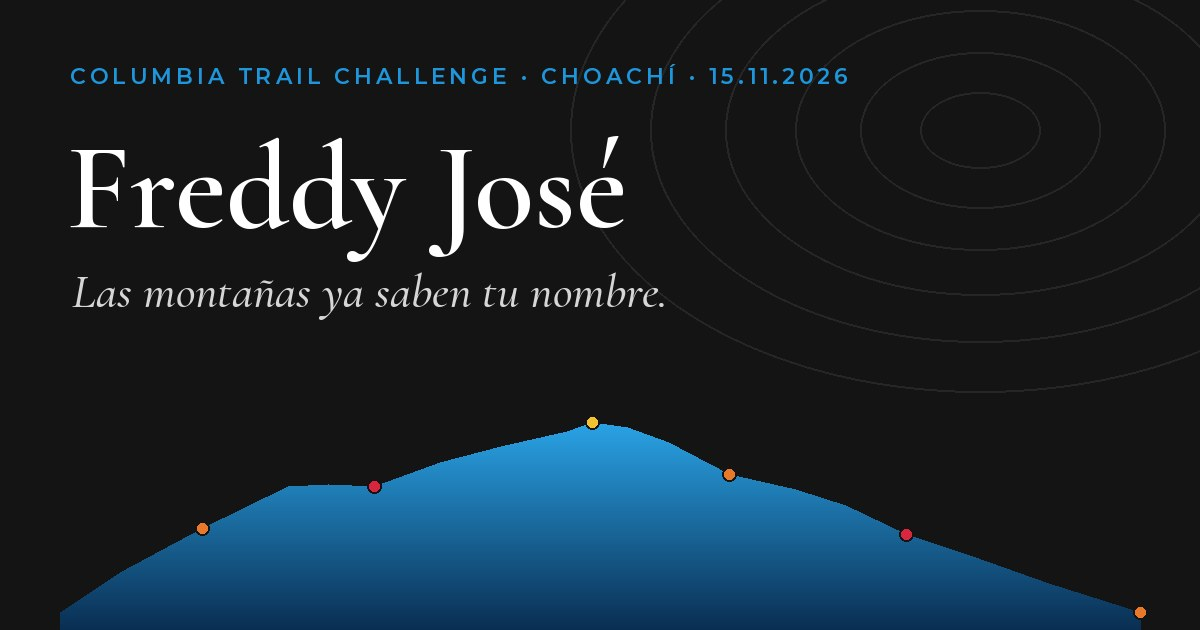
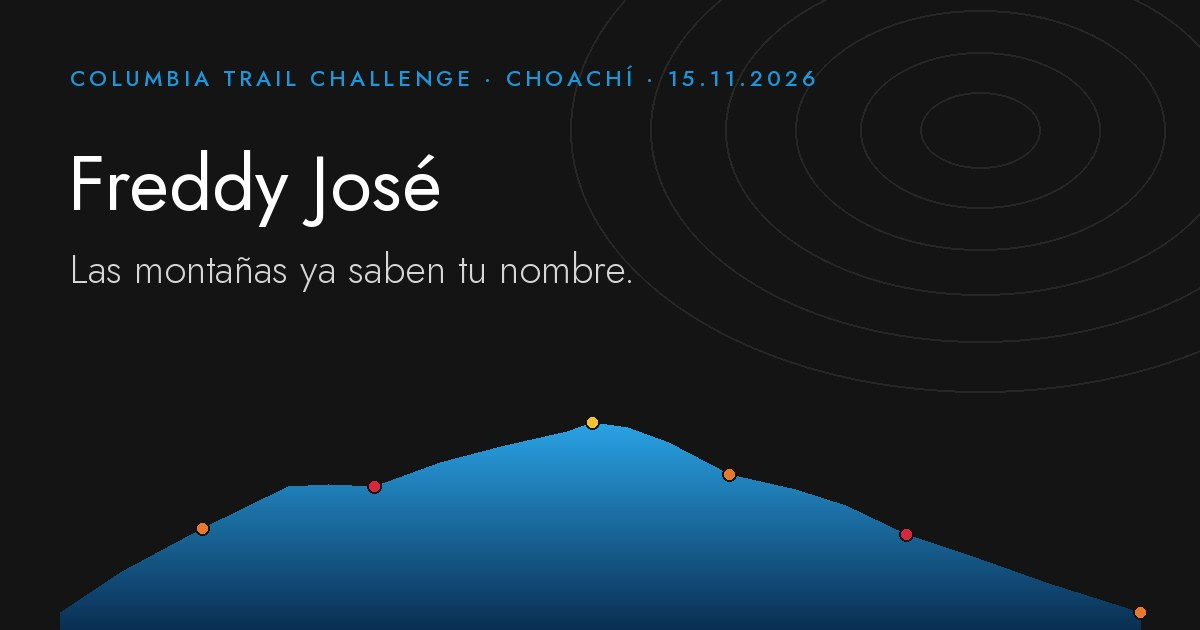
Tarjeta Freddy José: letra recta, título sobrio y monograma fv
Claude-Session: https://claude.ai/code/session_01AioF7tUm7bMLkSC4nL23cX

Changed region(s): [[0.0617, 0.2111, 0.555, 0.5127], [0.0617, 0.0905, 0.7092, 0.1508]]

diff --git a/freddy-jose.html b/freddy-jose.html
@@ -21,7 +21,7 @@
 <link rel="apple-touch-icon" href="apple-touch-icon.png">
 <link rel="preconnect" href="https://fonts.googleapis.com">
 <link rel="preconnect" href="https://fonts.gstatic.com" crossorigin>
-<link rel="stylesheet" href="https://fonts.googleapis.com/css2?family=Cormorant+Garamond:ital,wght@0,400;0,500;0,600;0,700;1,400;1,500;1,600&amp;family=Montserrat:wght@400;500;600&amp;display=swap">
+<link rel="stylesheet" href="https://fonts.googleapis.com/css2?family=Jost:wght@300;400;500;600&amp;display=swap">
 <style>
 html, body { margin: 0; background: #0B0B0B; }
 body { display: flex; flex-direction: column; align-items: center; gap: 20px; padding: 16px 0 40px; }
@@ -33,7 +33,7 @@ a { color: #1E96DC; } a:hover { color: #5BB8EC; }
 <body>
 <main aria-label="Tarjeta para Freddy José">
 <div class="frame"><div class="card">
-<div style="width: 1080px; height: 1350px; box-sizing: border-box; position: relative; overflow: hidden; background: #141414; color: #FFFFFF; font-family: 'Cormorant Garamond', Georgia, serif;">
+<div style="width: 1080px; height: 1350px; box-sizing: border-box; position: relative; overflow: hidden; background: #141414; color: #FFFFFF; font-family: 'Jost', 'Helvetica Neue', Arial, sans-serif;">
 <svg aria-hidden="true" width="1080" height="1350" viewBox="0 0 1080 1350" style="position: absolute; left: 0; top: 0;">
 <g fill="none" stroke="#FFFFFF" stroke-opacity="0.06" stroke-width="2">
 <ellipse cx="872" cy="232" rx="60" ry="38" transform="rotate(-12 872 232)"></ellipse>
@@ -168,25 +168,34 @@ a { color: #1E96DC; } a:hover { color: #5BB8EC; }
 </g>
 </g>
 </svg>
+<div style="position: absolute; right: 64px; top: 40px; display: flex; flex-direction: column; align-items: center; gap: 8px;">
+<svg role="img" aria-label="Monograma fv de Freddy Villarreal" width="52" height="63" viewBox="440 270 400 485">
+<g fill="none" stroke="#A8DCC5" stroke-width="16" stroke-linecap="butt" stroke-linejoin="round">
+<path d="M515 745 L 515 385 C 515 300, 610 255, 680 320"></path>
+<path d="M448 465 L 548 465 C 590 465, 612 500, 626 548 L 660 688 L 762 420 C 776 382, 798 356, 828 352"></path>
+</g>
+</svg>
+<span style="font-family: 'Jost', 'Helvetica Neue', Arial, sans-serif; font-weight: 500; font-size: 11px; letter-spacing: 2.5px; color: #BFE6D3; white-space: nowrap;">FREDDY VILLARREAL</span>
+</div>
 <div style="position: relative; box-sizing: border-box; width: 1080px; height: 1350px; padding: 80px 96px 72px; display: flex; flex-direction: column;">
-<p style="margin: 0; font-family: 'Montserrat', Arial, sans-serif; font-weight: 500; font-size: 18px; letter-spacing: 4px; text-transform: uppercase; color: #1E96DC;">Columbia Trail Challenge · 15.11.2026</p>
-<p style="margin: 10px 0 0; display: flex; align-items: center; gap: 10px; font-style: italic; font-weight: 500; font-size: 25px; line-height: 1.3; color: #BDBDBD;"><svg aria-hidden="true" width="18" height="18" viewBox="0 0 18 18" style="flex-shrink: 0;"><path d="M12.5 2.2 A 7.2 7.2 0 1 0 15.8 12.6 A 5.6 5.6 0 1 1 12.5 2.2 Z" fill="#E8E8E8"></path></svg><span>Choachí, del muisca <em style="font-weight: 600; color: #FFFFFF;">Chiguachí</em>: «ventana de la luna» · 1.922 m s. n. m.</span></p>
-<h1 style="margin: 34px 0 0; font-family: 'Cormorant Garamond', Georgia, serif; font-weight: 600; font-size: 128px; line-height: 0.95; letter-spacing: 1px; color: #FFFFFF;">Freddy José</h1>
-<p style="margin: 22px 0 0; font-style: italic; font-weight: 500; font-size: 52px; line-height: 1.1; color: #FFFFFF;">Las montañas ya saben tu nombre.</p>
-<div style="margin-top: 48px; display: flex; flex-direction: column; gap: 22px; max-width: 860px; font-size: 31px; line-height: 1.4; font-weight: 500; color: #D6D6D6;">
+<p style="margin: 0; font-family: 'Jost', 'Helvetica Neue', Arial, sans-serif; font-weight: 500; font-size: 18px; letter-spacing: 4px; text-transform: uppercase; color: #1E96DC;">Columbia Trail Challenge · 15.11.2026</p>
+<p style="margin: 10px 0 0; display: flex; align-items: center; gap: 10px; font-weight: 300; font-size: 21px; line-height: 1.35; color: #BDBDBD;"><svg aria-hidden="true" width="18" height="18" viewBox="0 0 18 18" style="flex-shrink: 0;"><path d="M12.5 2.2 A 7.2 7.2 0 1 0 15.8 12.6 A 5.6 5.6 0 1 1 12.5 2.2 Z" fill="#E8E8E8"></path></svg><span>Choachí, del muisca <em style="font-style: normal; font-weight: 500; color: #FFFFFF;">Chiguachí</em>: «ventana de la luna» · 1.922 msnm</span></p>
+<h1 style="margin: 34px 0 0; font-family: 'Jost', 'Helvetica Neue', Arial, sans-serif; font-weight: 400; font-size: 56px; line-height: 1.1; letter-spacing: 2px; color: #FFFFFF;">Freddy José</h1>
+<p style="margin: 22px 0 0; font-weight: 300; font-size: 40px; line-height: 1.2; color: #FFFFFF;">Las montañas ya saben tu nombre.</p>
+<div style="margin-top: 48px; display: flex; flex-direction: column; gap: 22px; max-width: 860px; font-size: 25px; line-height: 1.55; font-weight: 300; color: #D6D6D6;">
 <p style="margin: 0;">Terepaima te ha visto llegar antes que el sol. La Morita conoce tus pasos. El Ávila guarda tus subidas, y el páramo de Mérida te ha regalado su frío y su silencio.</p>
 <p style="margin: 0;">Fuiste del mar a la cumbre en Chichiriviche de la Costa, atravesaste la neblina del Zumbador, corriste 100 kilómetros en Mifafí, tierra de cóndores, te mediste con el mundo en el UTMB y aprendiste en el Backyard Ultra que siempre queda una vuelta más.</p>
 <p style="margin: 0;">Tus manos han recibido tantas vidas que sabes que lo más hermoso nace después del esfuerzo más largo. Compite como atiendes un parto: cabeza fría, manos firmes, corazón presente. Y levanta la mirada: la montaña también se disfruta.</p>
 </div>
-<p style="margin: 48px 0 0; max-width: 820px; font-style: italic; font-weight: 600; font-size: 48px; line-height: 1.2; color: #1E96DC;">Tú, que escuchas los primeros latidos de cada vida, escucha hoy el tuyo.</p>
+<p style="margin: 48px 0 0; max-width: 820px; font-weight: 400; font-size: 36px; line-height: 1.3; color: #1E96DC;">Tú, que escuchas los primeros latidos de cada vida, escucha hoy el tuyo.</p>
 <div style="flex-grow: 1;"></div>
-<p style="margin: 0; font-family: 'Cormorant Garamond', Georgia, serif; font-weight: 500; font-size: 44px; line-height: 1.15; color: #FFFFFF;">Choachí aún no conoce tu paso.<br>El domingo aprenderá tu nombre.</p>
+<p style="margin: 0; font-family: 'Jost', 'Helvetica Neue', Arial, sans-serif; font-weight: 400; font-size: 34px; line-height: 1.25; color: #FFFFFF;">Choachí aún no conoce tu paso.<br>El domingo aprenderá tu nombre.</p>
 </div>
 </div>
 </div></div>
 <div style="height: 20px;"></div>
 <div class="frame"><div class="card">
-<div style="width: 1080px; height: 1350px; box-sizing: border-box; position: relative; overflow: hidden; background: #141414; color: #FFFFFF; font-family: 'Cormorant Garamond', Georgia, serif;">
+<div style="width: 1080px; height: 1350px; box-sizing: border-box; position: relative; overflow: hidden; background: #141414; color: #FFFFFF; font-family: 'Jost', 'Helvetica Neue', Arial, sans-serif;">
 <svg aria-hidden="true" width="1080" height="1350" viewBox="0 0 1080 1350" style="position: absolute; left: 0; top: 0;">
 <g fill="none" stroke="#FFFFFF" stroke-opacity="0.06" stroke-width="2">
 <ellipse cx="190" cy="1190" rx="60" ry="38" transform="rotate(14 190 1190)"></ellipse>
@@ -198,7 +207,7 @@ a { color: #1E96DC; } a:hover { color: #5BB8EC; }
 </g>
 </svg>
 <div style="position: relative; box-sizing: border-box; width: 1080px; height: 1350px; padding: 80px 96px 56px; display: flex; flex-direction: column;">
-<p style="margin: 0; font-family: 'Montserrat', Arial, sans-serif; font-weight: 500; font-size: 18px; letter-spacing: 4px; text-transform: uppercase; color: #1E96DC;">Tu ruta · una frase, un pedazo por tramo</p>
+<p style="margin: 0; font-family: 'Jost', 'Helvetica Neue', Arial, sans-serif; font-weight: 500; font-size: 18px; letter-spacing: 4px; text-transform: uppercase; color: #1E96DC;">Tu ruta · una frase, un pedazo por tramo</p>
 <div style="position: relative; width: 888px; height: 300px; margin-top: 18px;">
 <svg role="img" aria-label="Perfil de la ruta de unos 23 km: salida a 1.922 metros, subida hasta 3.309 metros en el kilómetro 10,5 y bajada hasta la meta, con los puestos de control y flores nativas de Choachí: orquídea Epidendrum, frailejón y uva camarona" width="888" height="300" viewBox="0 0 888 300" style="position: absolute; left: 0; top: 0;">
 <defs>
@@ -510,137 +519,137 @@ a { color: #1E96DC; } a:hover { color: #5BB8EC; }
 </g>
 </g>
 </svg>
-<div style="position: absolute; left: 76px; top: 264px; transform: translateX(-50%); display: flex; flex-direction: column; align-items: center; font-family: 'Montserrat', Arial, sans-serif; font-size: 11px; line-height: 1.25; letter-spacing: 0.5px; white-space: nowrap;">
+<div style="position: absolute; left: 76px; top: 264px; transform: translateX(-50%); display: flex; flex-direction: column; align-items: center; font-family: 'Jost', 'Helvetica Neue', Arial, sans-serif; font-size: 11px; line-height: 1.25; letter-spacing: 0.5px; white-space: nowrap;">
 <span style="font-weight: 500; color: #E6EEF5;">2,8 km</span>
 <span style="font-weight: 600; color: #8FD0F5;">+570 m</span>
 </div>
-<div style="position: absolute; left: 199px; top: 264px; transform: translateX(-50%); display: flex; flex-direction: column; align-items: center; font-family: 'Montserrat', Arial, sans-serif; font-size: 11px; line-height: 1.25; letter-spacing: 0.5px; white-space: nowrap;">
+<div style="position: absolute; left: 199px; top: 264px; transform: translateX(-50%); display: flex; flex-direction: column; align-items: center; font-family: 'Jost', 'Helvetica Neue', Arial, sans-serif; font-size: 11px; line-height: 1.25; letter-spacing: 0.5px; white-space: nowrap;">
 <span style="font-weight: 500; color: #E6EEF5;">3,4 km</span>
 <span style="font-weight: 600; color: #8FD0F5;">+310 m</span>
 </div>
-<div style="position: absolute; left: 352px; top: 264px; transform: translateX(-50%); display: flex; flex-direction: column; align-items: center; font-family: 'Montserrat', Arial, sans-serif; font-size: 11px; line-height: 1.25; letter-spacing: 0.5px; white-space: nowrap;">
+<div style="position: absolute; left: 352px; top: 264px; transform: translateX(-50%); display: flex; flex-direction: column; align-items: center; font-family: 'Jost', 'Helvetica Neue', Arial, sans-serif; font-size: 11px; line-height: 1.25; letter-spacing: 0.5px; white-space: nowrap;">
 <span style="font-weight: 500; color: #E6EEF5;">4,3 km</span>
 <span style="font-weight: 600; color: #8FD0F5;">+500 m</span>
 </div>
-<div style="position: absolute; left: 492px; top: 264px; transform: translateX(-50%); display: flex; flex-direction: column; align-items: center; font-family: 'Montserrat', Arial, sans-serif; font-size: 11px; line-height: 1.25; letter-spacing: 0.5px; white-space: nowrap;">
+<div style="position: absolute; left: 492px; top: 264px; transform: translateX(-50%); display: flex; flex-direction: column; align-items: center; font-family: 'Jost', 'Helvetica Neue', Arial, sans-serif; font-size: 11px; line-height: 1.25; letter-spacing: 0.5px; white-space: nowrap;">
 <span style="font-weight: 500; color: #E6EEF5;">2,7 km</span>
 <span style="font-weight: 600; color: #8FD0F5;">−430 m</span>
 </div>
-<div style="position: absolute; left: 615px; top: 264px; transform: translateX(-50%); display: flex; flex-direction: column; align-items: center; font-family: 'Montserrat', Arial, sans-serif; font-size: 11px; line-height: 1.25; letter-spacing: 0.5px; white-space: nowrap;">
+<div style="position: absolute; left: 615px; top: 264px; transform: translateX(-50%); display: flex; flex-direction: column; align-items: center; font-family: 'Jost', 'Helvetica Neue', Arial, sans-serif; font-size: 11px; line-height: 1.25; letter-spacing: 0.5px; white-space: nowrap;">
 <span style="font-weight: 500; color: #E6EEF5;">3,5 km</span>
 <span style="font-weight: 600; color: #8FD0F5;">−420 m</span>
 </div>
-<div style="position: absolute; left: 776px; top: 264px; transform: translateX(-50%); display: flex; flex-direction: column; align-items: center; font-family: 'Montserrat', Arial, sans-serif; font-size: 11px; line-height: 1.25; letter-spacing: 0.5px; white-space: nowrap;">
+<div style="position: absolute; left: 776px; top: 264px; transform: translateX(-50%); display: flex; flex-direction: column; align-items: center; font-family: 'Jost', 'Helvetica Neue', Arial, sans-serif; font-size: 11px; line-height: 1.25; letter-spacing: 0.5px; white-space: nowrap;">
 <span style="font-weight: 500; color: #E6EEF5;">6,3 km</span>
 <span style="font-weight: 600; color: #8FD0F5;">−540 m</span>
 </div>
 <div style="position: absolute; left: 553px; top: 58px; display: flex; flex-direction: column; align-items: flex-start;">
-<span style="font-family: 'Montserrat', Arial, sans-serif; font-weight: 600; font-size: 13px; letter-spacing: 1.5px; text-transform: uppercase; line-height: 1.2; color: #1E96DC; white-space: nowrap;">Águila</span>
-<span style="font-style: italic; font-weight: 600; font-size: 30px; line-height: 1.15; color: #FFFFFF; white-space: nowrap;">Gratitud</span>
+<span style="font-family: 'Jost', 'Helvetica Neue', Arial, sans-serif; font-weight: 600; font-size: 13px; letter-spacing: 1.5px; text-transform: uppercase; line-height: 1.2; color: #1E96DC; white-space: nowrap;">Águila</span>
+<span style="font-weight: 400; font-size: 24px; line-height: 1.25; color: #FFFFFF; white-space: nowrap;">Gratitud</span>
 </div>
 <div style="position: absolute; left: 131.5px; top: 104px; transform: translateX(-50%); display: flex; flex-direction: column; align-items: center;">
-<span style="font-family: 'Montserrat', Arial, sans-serif; font-weight: 600; font-size: 13px; letter-spacing: 1.5px; text-transform: uppercase; line-height: 1.2; color: #1E96DC; white-space: nowrap;">Apola</span>
-<span style="font-style: italic; font-weight: 600; font-size: 30px; line-height: 1.15; color: #FFFFFF; white-space: nowrap;">Calma</span>
+<span style="font-family: 'Jost', 'Helvetica Neue', Arial, sans-serif; font-weight: 600; font-size: 13px; letter-spacing: 1.5px; text-transform: uppercase; line-height: 1.2; color: #1E96DC; white-space: nowrap;">Apola</span>
+<span style="font-weight: 400; font-size: 24px; line-height: 1.25; color: #FFFFFF; white-space: nowrap;">Calma</span>
 </div>
 <div style="position: absolute; left: 266.8px; top: 58px; transform: translateX(-50%); display: flex; flex-direction: column; align-items: center;">
-<span style="font-family: 'Montserrat', Arial, sans-serif; font-weight: 600; font-size: 13px; letter-spacing: 1.5px; text-transform: uppercase; line-height: 1.2; color: #1E96DC; white-space: nowrap;">Quininí</span>
-<span style="font-style: italic; font-weight: 600; font-size: 30px; line-height: 1.15; color: #FFFFFF; white-space: nowrap;">Paciencia</span>
+<span style="font-family: 'Jost', 'Helvetica Neue', Arial, sans-serif; font-weight: 600; font-size: 13px; letter-spacing: 1.5px; text-transform: uppercase; line-height: 1.2; color: #1E96DC; white-space: nowrap;">Quininí</span>
+<span style="font-weight: 400; font-size: 24px; line-height: 1.25; color: #FFFFFF; white-space: nowrap;">Paciencia</span>
 </div>
 <div style="position: absolute; left: 438px; top: 0px; transform: translateX(-50%); display: flex; flex-direction: column; align-items: center;">
-<span style="font-family: 'Montserrat', Arial, sans-serif; font-weight: 600; font-size: 13px; letter-spacing: 1.5px; text-transform: uppercase; line-height: 1.2; color: #1E96DC; white-space: nowrap;">Nueva Granate · 3.309 m</span>
-<span style="font-style: italic; font-weight: 600; font-size: 30px; line-height: 1.15; color: #FFFFFF; white-space: nowrap;">Conquista</span>
+<span style="font-family: 'Jost', 'Helvetica Neue', Arial, sans-serif; font-weight: 600; font-size: 13px; letter-spacing: 1.5px; text-transform: uppercase; line-height: 1.2; color: #1E96DC; white-space: nowrap;">Nueva Granate · 3.309 m</span>
+<span style="font-weight: 400; font-size: 24px; line-height: 1.25; color: #FFFFFF; white-space: nowrap;">Conquista</span>
 </div>
 <div style="position: absolute; left: 684.8px; top: 108px; transform: translateX(-50%); display: flex; flex-direction: column; align-items: center;">
-<span style="font-family: 'Montserrat', Arial, sans-serif; font-weight: 600; font-size: 13px; letter-spacing: 1.5px; text-transform: uppercase; line-height: 1.2; color: #1E96DC; white-space: nowrap;">Azabache</span>
-<span style="font-style: italic; font-weight: 600; font-size: 30px; line-height: 1.15; color: #FFFFFF; white-space: nowrap;">Ataque</span>
+<span style="font-family: 'Jost', 'Helvetica Neue', Arial, sans-serif; font-weight: 600; font-size: 13px; letter-spacing: 1.5px; text-transform: uppercase; line-height: 1.2; color: #1E96DC; white-space: nowrap;">Azabache</span>
+<span style="font-weight: 400; font-size: 24px; line-height: 1.25; color: #FFFFFF; white-space: nowrap;">Ataque</span>
 </div>
 <div style="position: absolute; right: 0px; top: 176px; display: flex; flex-direction: column; align-items: flex-end;">
-<span style="font-family: 'Montserrat', Arial, sans-serif; font-weight: 600; font-size: 13px; letter-spacing: 1.5px; text-transform: uppercase; line-height: 1.2; color: #1E96DC; white-space: nowrap;">Club Colombia Dorada</span>
-<span style="font-style: italic; font-weight: 600; font-size: 30px; line-height: 1.15; color: #FFFFFF; white-space: nowrap;">Felicidad</span>
+<span style="font-family: 'Jost', 'Helvetica Neue', Arial, sans-serif; font-weight: 600; font-size: 13px; letter-spacing: 1.5px; text-transform: uppercase; line-height: 1.2; color: #1E96DC; white-space: nowrap;">Club Colombia Dorada</span>
+<span style="font-weight: 400; font-size: 24px; line-height: 1.25; color: #FFFFFF; white-space: nowrap;">Felicidad</span>
 </div>
 </div>
-<div style="display: flex; justify-content: space-between; gap: 24px; margin-top: 10px; font-family: 'Montserrat', Arial, sans-serif; font-weight: 500; font-size: 12px; letter-spacing: 1.5px; text-transform: uppercase; color: #9A9A9A;">
+<div style="display: flex; justify-content: space-between; gap: 24px; margin-top: 10px; font-family: 'Jost', 'Helvetica Neue', Arial, sans-serif; font-weight: 500; font-size: 12px; letter-spacing: 1.5px; text-transform: uppercase; color: #9A9A9A;">
 <span>Salida y llegada · Parque principal de Choachí · 1.922 m</span>
 <span>21K de nombre · 23 km reales · +1.652 m</span>
 </div>
-<p style="margin: 16px 0 0; display: flex; align-items: center; gap: 10px; font-family: 'Cormorant Garamond', Georgia, serif; font-style: italic; font-weight: 600; font-size: 22px; line-height: 1.3; color: #FFFFFF;"><svg aria-hidden="true" width="16" height="20" viewBox="0 0 16 20" style="flex-shrink: 0;"><path d="M8 1 C 8 1, 1 9.5, 1 13 A 7 7 0 0 0 15 13 C 15 9.5, 8 1, 8 1 Z" fill="#1E96DC"></path></svg><span>Indicación médica: en cada puesto, carbos y electrolitos, aunque no tengas hambre ni sed.</span></p>
+<p style="margin: 16px 0 0; display: flex; align-items: center; gap: 10px; font-family: 'Jost', 'Helvetica Neue', Arial, sans-serif; font-weight: 400; font-size: 18px; line-height: 1.35; color: #FFFFFF;"><svg aria-hidden="true" width="16" height="20" viewBox="0 0 16 20" style="flex-shrink: 0;"><path d="M8 1 C 8 1, 1 9.5, 1 13 A 7 7 0 0 0 15 13 C 15 9.5, 8 1, 8 1 Z" fill="#1E96DC"></path></svg><span>Indicación médica: en cada puesto, carbos y electrolitos, aunque no tengas hambre ni sed.</span></p>
 <div style="margin-top: 10px; display: grid; grid-template-columns: repeat(3, minmax(0, 1fr)); column-gap: 24px; row-gap: 10px;">
 <div style="display: flex; flex-direction: column; gap: 2px; padding-top: 10px; border-top: 1px solid rgba(255, 255, 255, 0.15);">
-<span style="font-family: 'Montserrat', Arial, sans-serif; font-weight: 600; font-size: 12px; letter-spacing: 1.5px; text-transform: uppercase; color: #1E96DC;">PC 1 · km 2,8</span>
-<span style="font-style: italic; font-weight: 600; font-size: 25px; line-height: 1.1; color: #FFFFFF;">Apola</span>
-<span style="font-family: 'Montserrat', Arial, sans-serif; font-weight: 400; font-size: 12px; line-height: 1.4; color: #BDBDBD;">Agua</span>
+<span style="font-family: 'Jost', 'Helvetica Neue', Arial, sans-serif; font-weight: 600; font-size: 12px; letter-spacing: 1.5px; text-transform: uppercase; color: #1E96DC;">PC 1 · km 2,8</span>
+<span style="font-weight: 400; font-size: 20px; line-height: 1.25; color: #FFFFFF;">Apola</span>
+<span style="font-family: 'Jost', 'Helvetica Neue', Arial, sans-serif; font-weight: 400; font-size: 12px; line-height: 1.4; color: #BDBDBD;">Agua</span>
 </div>
 <div style="display: flex; flex-direction: column; gap: 2px; padding-top: 10px; border-top: 1px solid rgba(255, 255, 255, 0.15);">
-<span style="font-family: 'Montserrat', Arial, sans-serif; font-weight: 600; font-size: 12px; letter-spacing: 1.5px; text-transform: uppercase; color: #1E96DC;">PC 2 · km 6,2</span>
-<span style="font-style: italic; font-weight: 600; font-size: 25px; line-height: 1.1; color: #FFFFFF;">Quininí</span>
-<span style="font-family: 'Montserrat', Arial, sans-serif; font-weight: 400; font-size: 12px; line-height: 1.4; color: #BDBDBD;">Agua y comida · corte 1 h 45</span>
+<span style="font-family: 'Jost', 'Helvetica Neue', Arial, sans-serif; font-weight: 600; font-size: 12px; letter-spacing: 1.5px; text-transform: uppercase; color: #1E96DC;">PC 2 · km 6,2</span>
+<span style="font-weight: 400; font-size: 20px; line-height: 1.25; color: #FFFFFF;">Quininí</span>
+<span style="font-family: 'Jost', 'Helvetica Neue', Arial, sans-serif; font-weight: 400; font-size: 12px; line-height: 1.4; color: #BDBDBD;">Agua y comida · corte 1 h 45</span>
 </div>
 <div style="display: flex; flex-direction: column; gap: 2px; padding-top: 10px; border-top: 1px solid rgba(255, 255, 255, 0.15);">
-<span style="font-family: 'Montserrat', Arial, sans-serif; font-weight: 600; font-size: 12px; letter-spacing: 1.5px; text-transform: uppercase; color: #1E96DC;">Cima · km 10,5</span>
-<span style="font-style: italic; font-weight: 600; font-size: 25px; line-height: 1.1; color: #FFFFFF;">Nueva Granate</span>
-<span style="font-family: 'Montserrat', Arial, sans-serif; font-weight: 400; font-size: 12px; line-height: 1.4; color: #BDBDBD;">3.309 m · el techo de la carrera</span>
+<span style="font-family: 'Jost', 'Helvetica Neue', Arial, sans-serif; font-weight: 600; font-size: 12px; letter-spacing: 1.5px; text-transform: uppercase; color: #1E96DC;">Cima · km 10,5</span>
+<span style="font-weight: 400; font-size: 20px; line-height: 1.25; color: #FFFFFF;">Nueva Granate</span>
+<span style="font-family: 'Jost', 'Helvetica Neue', Arial, sans-serif; font-weight: 400; font-size: 12px; line-height: 1.4; color: #BDBDBD;">3.309 m · el techo de la carrera</span>
 </div>
 <div style="display: flex; flex-direction: column; gap: 2px; padding-top: 10px; border-top: 1px solid rgba(255, 255, 255, 0.15);">
-<span style="font-family: 'Montserrat', Arial, sans-serif; font-weight: 600; font-size: 12px; letter-spacing: 1.5px; text-transform: uppercase; color: #1E96DC;">PC 4 · km 13,2</span>
-<span style="font-style: italic; font-weight: 600; font-size: 25px; line-height: 1.1; color: #FFFFFF;">Águila</span>
-<span style="font-family: 'Montserrat', Arial, sans-serif; font-weight: 400; font-size: 12px; line-height: 1.4; color: #BDBDBD;">Primeros auxilios</span>
+<span style="font-family: 'Jost', 'Helvetica Neue', Arial, sans-serif; font-weight: 600; font-size: 12px; letter-spacing: 1.5px; text-transform: uppercase; color: #1E96DC;">PC 4 · km 13,2</span>
+<span style="font-weight: 400; font-size: 20px; line-height: 1.25; color: #FFFFFF;">Águila</span>
+<span style="font-family: 'Jost', 'Helvetica Neue', Arial, sans-serif; font-weight: 400; font-size: 12px; line-height: 1.4; color: #BDBDBD;">Primeros auxilios</span>
 </div>
 <div style="display: flex; flex-direction: column; gap: 2px; padding-top: 10px; border-top: 1px solid rgba(255, 255, 255, 0.15);">
-<span style="font-family: 'Montserrat', Arial, sans-serif; font-weight: 600; font-size: 12px; letter-spacing: 1.5px; text-transform: uppercase; color: #1E96DC;">PC 5 · km 16,7</span>
-<span style="font-style: italic; font-weight: 600; font-size: 25px; line-height: 1.1; color: #FFFFFF;">Azabache</span>
-<span style="font-family: 'Montserrat', Arial, sans-serif; font-weight: 400; font-size: 12px; line-height: 1.4; color: #BDBDBD;">Agua y comida · corte 5 h 15</span>
+<span style="font-family: 'Jost', 'Helvetica Neue', Arial, sans-serif; font-weight: 600; font-size: 12px; letter-spacing: 1.5px; text-transform: uppercase; color: #1E96DC;">PC 5 · km 16,7</span>
+<span style="font-weight: 400; font-size: 20px; line-height: 1.25; color: #FFFFFF;">Azabache</span>
+<span style="font-family: 'Jost', 'Helvetica Neue', Arial, sans-serif; font-weight: 400; font-size: 12px; line-height: 1.4; color: #BDBDBD;">Agua y comida · corte 5 h 15</span>
 </div>
 <div style="display: flex; flex-direction: column; gap: 2px; padding-top: 10px; border-top: 1px solid rgba(255, 255, 255, 0.15);">
-<span style="font-family: 'Montserrat', Arial, sans-serif; font-weight: 600; font-size: 12px; letter-spacing: 1.5px; text-transform: uppercase; color: #1E96DC;">Meta · km 23</span>
-<span style="font-style: italic; font-weight: 600; font-size: 25px; line-height: 1.1; color: #FFFFFF;">Club Colombia Dorada</span>
-<span style="font-family: 'Montserrat', Arial, sans-serif; font-weight: 400; font-size: 12px; line-height: 1.4; color: #BDBDBD;">Agua y comida · corte 7 h</span>
+<span style="font-family: 'Jost', 'Helvetica Neue', Arial, sans-serif; font-weight: 600; font-size: 12px; letter-spacing: 1.5px; text-transform: uppercase; color: #1E96DC;">Meta · km 23</span>
+<span style="font-weight: 400; font-size: 20px; line-height: 1.25; color: #FFFFFF;">Club Colombia Dorada</span>
+<span style="font-family: 'Jost', 'Helvetica Neue', Arial, sans-serif; font-weight: 400; font-size: 12px; line-height: 1.4; color: #BDBDBD;">Agua y comida · corte 7 h</span>
 </div>
 </div>
 <ol style="list-style: none; margin: 14px 0 0; padding: 0; display: flex; flex-direction: column;">
 <li style="display: grid; grid-template-columns: 80px minmax(0, 1fr); column-gap: 24px; padding: 6px 0; border-top: 1px solid rgba(255, 255, 255, 0.15);">
-<span style="font-family: 'Cormorant Garamond', Georgia, serif; font-weight: 600; font-size: 50px; line-height: 1; color: #1E96DC;">01</span>
+<span style="font-family: 'Jost', 'Helvetica Neue', Arial, sans-serif; font-weight: 300; font-size: 42px; line-height: 1; color: #1E96DC;">01</span>
 <div style="display: flex; flex-direction: column; gap: 2px;">
-<span style="font-family: 'Montserrat', Arial, sans-serif; font-weight: 500; font-size: 13px; letter-spacing: 2px; text-transform: uppercase; line-height: 1.4; color: #BDBDBD;">La salida · km 0 a 2,8 · Calma</span>
-<span style="font-style: italic; font-weight: 600; font-size: 38px; line-height: 1.05; color: #FFFFFF;">Salgo con el pulso en calma,</span>
-<span style="font-size: 22px; line-height: 1.3; font-weight: 500; color: #D6D6D6;">Lee tu pulso como el de un paciente: los que salen rápido, pagan.</span>
+<span style="font-family: 'Jost', 'Helvetica Neue', Arial, sans-serif; font-weight: 500; font-size: 13px; letter-spacing: 2px; text-transform: uppercase; line-height: 1.4; color: #BDBDBD;">La salida · km 0 a 2,8 · Calma</span>
+<span style="font-weight: 400; font-size: 30px; line-height: 1.2; color: #FFFFFF;">Salgo con el pulso en calma,</span>
+<span style="font-size: 19px; line-height: 1.4; font-weight: 300; color: #D6D6D6;">Lee tu pulso como el de un paciente: los que salen rápido, pagan.</span>
 </div>
 </li>
 <li style="display: grid; grid-template-columns: 80px minmax(0, 1fr); column-gap: 24px; padding: 6px 0; border-top: 1px solid rgba(255, 255, 255, 0.15);">
-<span style="font-family: 'Cormorant Garamond', Georgia, serif; font-weight: 600; font-size: 50px; line-height: 1; color: #1E96DC;">02</span>
+<span style="font-family: 'Jost', 'Helvetica Neue', Arial, sans-serif; font-weight: 300; font-size: 42px; line-height: 1; color: #1E96DC;">02</span>
 <div style="display: flex; flex-direction: column; gap: 2px;">
-<span style="font-family: 'Montserrat', Arial, sans-serif; font-weight: 500; font-size: 13px; letter-spacing: 2px; text-transform: uppercase; line-height: 1.4; color: #BDBDBD;">La gran subida · km 2,8 a 10,5 · Paciencia</span>
-<span style="font-style: italic; font-weight: 600; font-size: 38px; line-height: 1.05; color: #FFFFFF;">subo con paciencia,</span>
-<span style="font-size: 22px; line-height: 1.3; font-weight: 500; color: #D6D6D6;">Paso corto y constante: el ritmo lo marca tu corazón, no los demás.</span>
+<span style="font-family: 'Jost', 'Helvetica Neue', Arial, sans-serif; font-weight: 500; font-size: 13px; letter-spacing: 2px; text-transform: uppercase; line-height: 1.4; color: #BDBDBD;">La gran subida · km 2,8 a 10,5 · Paciencia</span>
+<span style="font-weight: 400; font-size: 30px; line-height: 1.2; color: #FFFFFF;">subo con paciencia,</span>
+<span style="font-size: 19px; line-height: 1.4; font-weight: 300; color: #D6D6D6;">Paso corto y constante: el ritmo lo marca tu corazón, no los demás.</span>
 </div>
 </li>
 <li style="display: grid; grid-template-columns: 80px minmax(0, 1fr); column-gap: 24px; padding: 6px 0; border-top: 1px solid rgba(255, 255, 255, 0.15);">
-<span style="font-family: 'Cormorant Garamond', Georgia, serif; font-weight: 600; font-size: 50px; line-height: 1; color: #1E96DC;">03</span>
+<span style="font-family: 'Jost', 'Helvetica Neue', Arial, sans-serif; font-weight: 300; font-size: 42px; line-height: 1; color: #1E96DC;">03</span>
 <div style="display: flex; flex-direction: column; gap: 2px;">
-<span style="font-family: 'Montserrat', Arial, sans-serif; font-weight: 500; font-size: 13px; letter-spacing: 2px; text-transform: uppercase; line-height: 1.4; color: #BDBDBD;">El techo · 3.309 m · Conquista</span>
-<span style="font-style: italic; font-weight: 600; font-size: 38px; line-height: 1.05; color: #FFFFFF;">miro lo que conquisté,</span>
-<span style="font-size: 22px; line-height: 1.3; font-weight: 500; color: #D6D6D6;">Un segundo basta: mira, respira y vuelve a la carrera.</span>
+<span style="font-family: 'Jost', 'Helvetica Neue', Arial, sans-serif; font-weight: 500; font-size: 13px; letter-spacing: 2px; text-transform: uppercase; line-height: 1.4; color: #BDBDBD;">El techo · 3.309 m · Conquista</span>
+<span style="font-weight: 400; font-size: 30px; line-height: 1.2; color: #FFFFFF;">miro lo que conquisté,</span>
+<span style="font-size: 19px; line-height: 1.4; font-weight: 300; color: #D6D6D6;">Un segundo basta: mira, respira y vuelve a la carrera.</span>
 </div>
 </li>
 <li style="display: grid; grid-template-columns: 80px minmax(0, 1fr); column-gap: 24px; padding: 6px 0; border-top: 1px solid rgba(255, 255, 255, 0.15);">
-<span style="font-family: 'Cormorant Garamond', Georgia, serif; font-weight: 600; font-size: 50px; line-height: 1; color: #1E96DC;">04</span>
+<span style="font-family: 'Jost', 'Helvetica Neue', Arial, sans-serif; font-weight: 300; font-size: 42px; line-height: 1; color: #1E96DC;">04</span>
 <div style="display: flex; flex-direction: column; gap: 2px;">
-<span style="font-family: 'Montserrat', Arial, sans-serif; font-weight: 500; font-size: 13px; letter-spacing: 2px; text-transform: uppercase; line-height: 1.4; color: #BDBDBD;">La bajada · km 10,5 a 23 · Ataque</span>
-<span style="font-style: italic; font-weight: 600; font-size: 38px; line-height: 1.05; color: #FFFFFF;">bajo volando</span>
-<span style="font-size: 22px; line-height: 1.3; font-weight: 500; color: #D6D6D6;">Aquí se gana la carrera: pies ligeros, como cóndor de Mifafí.</span>
+<span style="font-family: 'Jost', 'Helvetica Neue', Arial, sans-serif; font-weight: 500; font-size: 13px; letter-spacing: 2px; text-transform: uppercase; line-height: 1.4; color: #BDBDBD;">La bajada · km 10,5 a 23 · Ataque</span>
+<span style="font-weight: 400; font-size: 30px; line-height: 1.2; color: #FFFFFF;">bajo volando</span>
+<span style="font-size: 19px; line-height: 1.4; font-weight: 300; color: #D6D6D6;">Aquí se gana la carrera: pies ligeros, como cóndor de Mifafí.</span>
 </div>
 </li>
 <li style="display: grid; grid-template-columns: 80px minmax(0, 1fr); column-gap: 24px; padding: 6px 0; border-top: 1px solid rgba(255, 255, 255, 0.15); border-bottom: 1px solid rgba(255, 255, 255, 0.15);">
-<span style="font-family: 'Cormorant Garamond', Georgia, serif; font-weight: 600; font-size: 50px; line-height: 1; color: #1E96DC;">05</span>
+<span style="font-family: 'Jost', 'Helvetica Neue', Arial, sans-serif; font-weight: 300; font-size: 42px; line-height: 1; color: #1E96DC;">05</span>
 <div style="display: flex; flex-direction: column; gap: 2px;">
-<span style="font-family: 'Montserrat', Arial, sans-serif; font-weight: 500; font-size: 13px; letter-spacing: 2px; text-transform: uppercase; line-height: 1.4; color: #BDBDBD;">La meta · km 23 · Felicidad</span>
-<span style="font-style: italic; font-weight: 600; font-size: 38px; line-height: 1.05; color: #1E96DC;">y llego con todo.</span>
-<span style="font-size: 22px; line-height: 1.3; font-weight: 500; color: #D6D6D6;">Déjalo todo en Choachí… y cóbralo en cerveza fría y cocido chiguachia.</span>
+<span style="font-family: 'Jost', 'Helvetica Neue', Arial, sans-serif; font-weight: 500; font-size: 13px; letter-spacing: 2px; text-transform: uppercase; line-height: 1.4; color: #BDBDBD;">La meta · km 23 · Felicidad</span>
+<span style="font-weight: 400; font-size: 30px; line-height: 1.2; color: #1E96DC;">y llego con todo.</span>
+<span style="font-size: 19px; line-height: 1.4; font-weight: 300; color: #D6D6D6;">Déjalo todo en Choachí… y cóbralo en cerveza fría y cocido chiguachia.</span>
 </div>
 </li>
 </ol>
 <div style="flex-grow: 1;"></div>
 <div style="display: flex; justify-content: space-between; align-items: flex-end; gap: 24px;">
-<p style="margin: 0; font-family: 'Cormorant Garamond', Georgia, serif; font-weight: 500; font-size: 32px; line-height: 1.15; color: #FFFFFF;">Cuando cruces la meta, sonríe y agradece:<br>cada kilómetro fue salud; cada paso, vida.</p>
+<p style="margin: 0; font-family: 'Jost', 'Helvetica Neue', Arial, sans-serif; font-weight: 400; font-size: 26px; line-height: 1.3; color: #FFFFFF;">Cuando cruces la meta, sonríe y agradece:<br>cada kilómetro fue salud; cada paso, vida.</p>
 <svg role="img" aria-label="Una cerveza fría y un cocido chiguachia esperan en la meta" width="196" height="96" viewBox="0 0 196 96" style="flex-shrink: 0;">
 <g transform="translate(0 14)">
 <g fill="none" stroke="#FFFFFF" stroke-opacity="0.85" stroke-width="4" stroke-linecap="round">
@@ -679,7 +688,7 @@ a { color: #1E96DC; } a:hover { color: #5BB8EC; }
 </g>
 </svg>
 </div>
-<p style="position: absolute; left: 96px; right: 96px; bottom: 20px; margin: 0; text-align: center; font-family: 'Montserrat', Arial, sans-serif; font-weight: 400; font-size: 10px; letter-spacing: 1px; color: #8A8A8A;">© 2026 AA · Todos los derechos reservados. Diseño y texto de esta tarjeta.</p>
+<p style="position: absolute; left: 96px; right: 96px; bottom: 20px; margin: 0; text-align: center; font-family: 'Jost', 'Helvetica Neue', Arial, sans-serif; font-weight: 400; font-size: 10px; letter-spacing: 1px; color: #8A8A8A;">© 2026 AA · Todos los derechos reservados. Diseño y texto de esta tarjeta.</p>
 </div>
 </div>
 </div></div>
